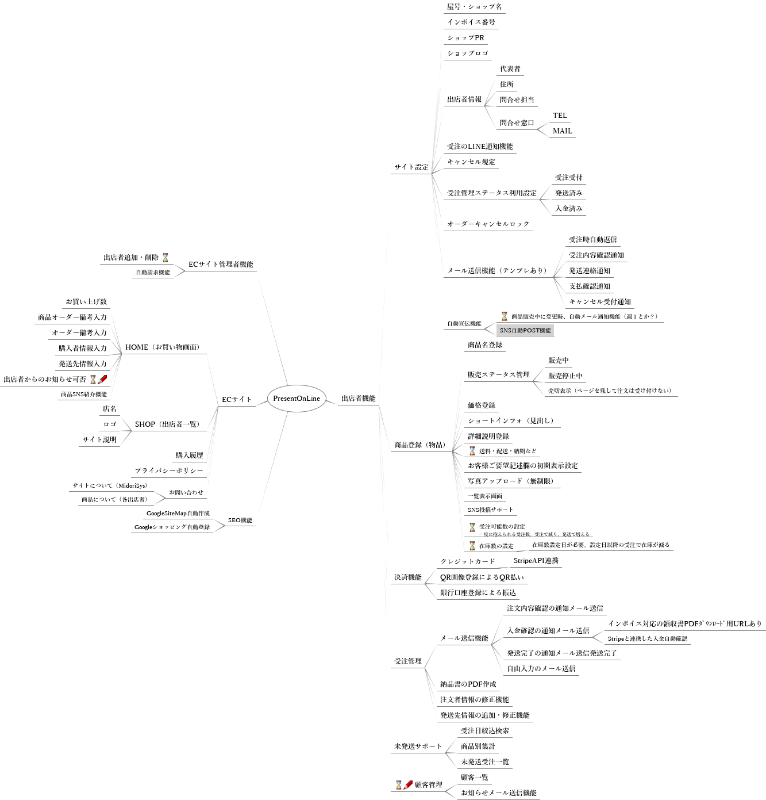
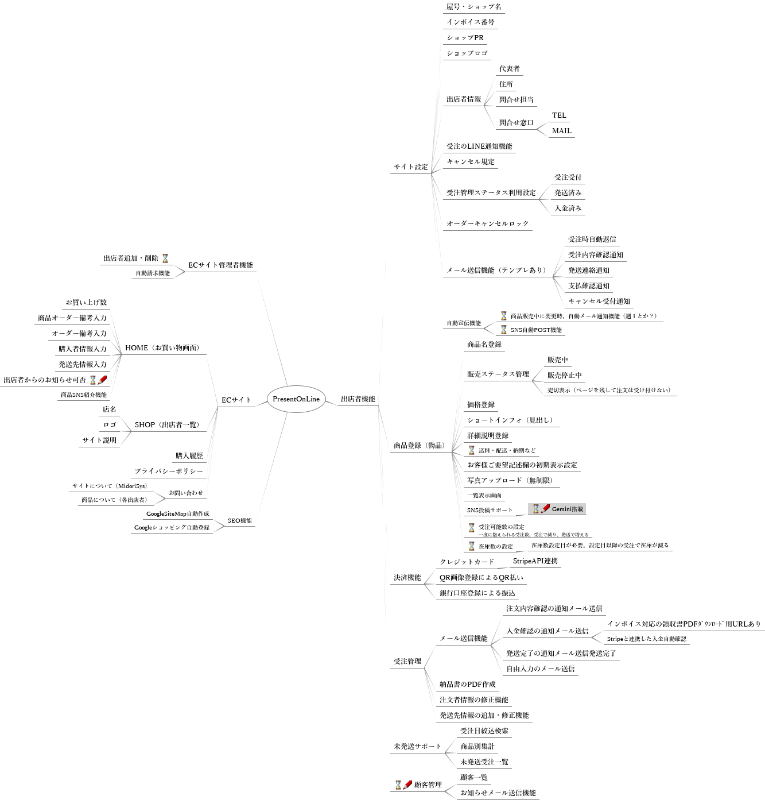
ver1.31.0:GoogleAI搭載

diff --git a/ajax_Gemini_Answer.php b/ajax_Gemini_Answer.php
@@ -1,15 +1,29 @@
 <?php
 //テスト用
 require "php_header.php";
+register_shutdown_function('shutdown_ajax',basename(__FILE__));
+
+
 use GeminiAPI\Client;
 use GeminiAPI\Resources\ModelName;
 use GeminiAPI\Resources\Parts\TextPart;
 
-//$ApiKey = 'ここにApiKey入れる';
 $client = new Client(GEMINI);
-$response = $client->geminiPro()->generateContent(
-  new TextPart('ここに質問いれる'),
-);
 
-echo $response->text();
+$response = $client->withV1BetaVersion()
+    ->generativeModel(ModelName::GEMINI_1_5_FLASH)
+    ->withSystemInstruction('凄腕インフルエンサーとして')
+    ->generateContent(
+        new TextPart('Xでバズるハッシュタグと日本語の投稿例を３つJSON形式で簡潔に提案してください。JSONの形式について、ハッシュタグはtags。投稿例はrei1,rei2,rei3で。URL：https://cafe-present.greeen-sys.com/product.php?id=2-8 商品名：ざくざくナッツタルト。説明：米粉のタルトに豆腐ベースのダマンド、ナッツの上にメープルシロップを少しコーディングした人気のタルトです。リピーターさんが多いのでネットにて販売させて頂きます。《原材料》米粉、植物油、メープルシロップ、アーモンドプードル、カシューナッツ、アーモンド、くるみ、豆腐、片栗粉、食塩'),
+    );
+
+//print str_replace('\n','<BR>\n',$response->text());
+print nl2br($response->text());
+//log_writer2("response",$response,"lv3");
+
+header('Content-type: application/json');
+echo json_encode($response->text(), JSON_UNESCAPED_UNICODE);
+
+exit();
+
 ?>

diff --git a/shouhinMS.php b/shouhinMS.php
@@ -124,6 +124,12 @@
       </div>
       <div class='row mb-3'>
         <div class='col-md-8 col-12'>
+          <label for='setumei' class="form-label">配送・送料等について</label>
+          <textarea type='memo' class='form-control' id='setumei' rows="5" v-model='haisou' placeholder='配送方法、送料、納期などについて'></textarea>
+        </div>
+      </div>
+      <div class='row mb-3'>
+        <div class='col-md-8 col-12'>
           <label for='customer_bikou' class="form-label">お客様の備考</label>
           <textarea type='memo' class='form-control' id='customer_bikou' rows="3" v-model='customer_bikou' aria-labelledby="customer_bikou_help"></textarea>
           <div id="customer_bikou_help" class="form-text">
@@ -144,6 +150,7 @@
         <div class='col-md-8 col-12'>
           <button type='button' class='btn btn-info' @click='input_file_btn("pic_file")'>写真アップロード</button>
           <input type='file' name='filename' style='display:none;' id='pic_file' @change='uploadfile("pic_file")' multiple accept="image/*">
+          <small>写真は正方形がおすすめです。</small>
         </div>
       </div>
       <div class='row mb-3'>
